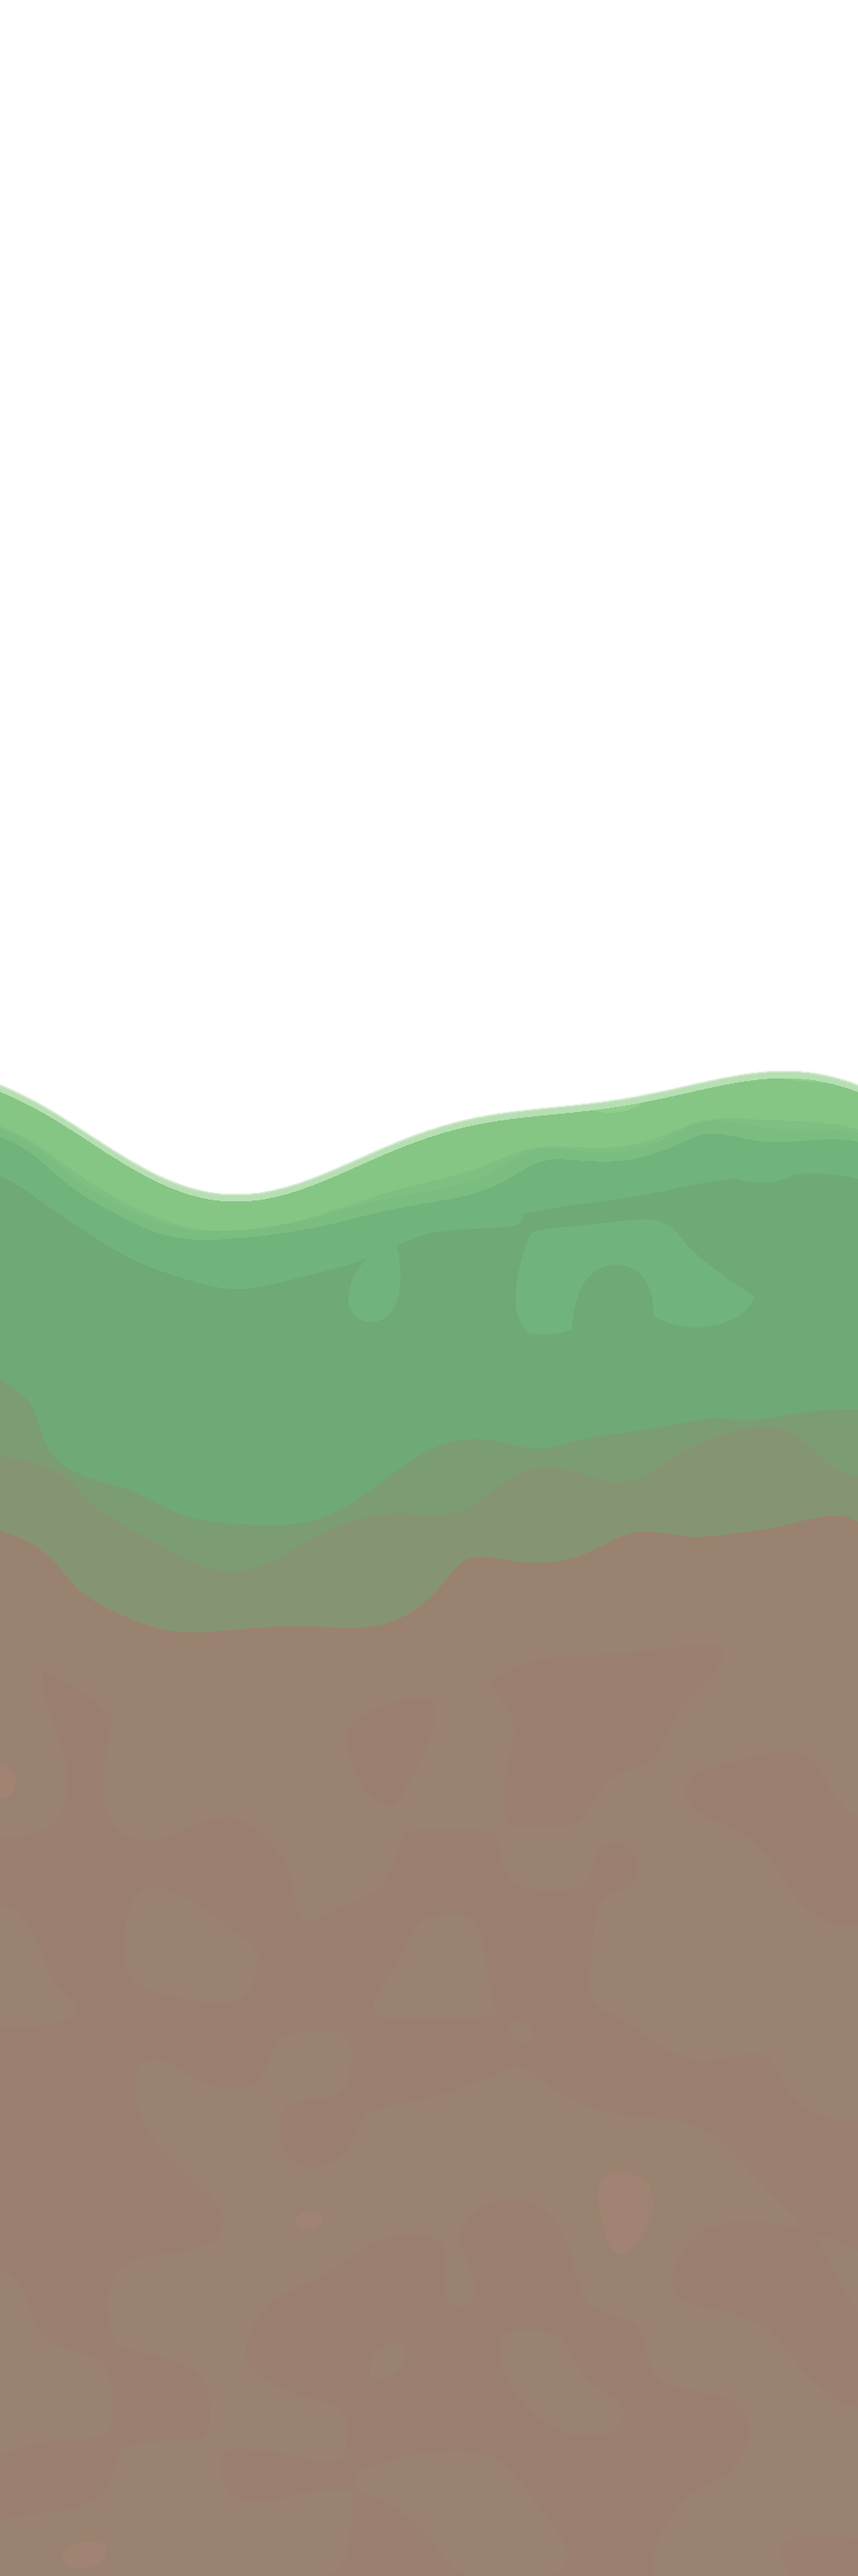
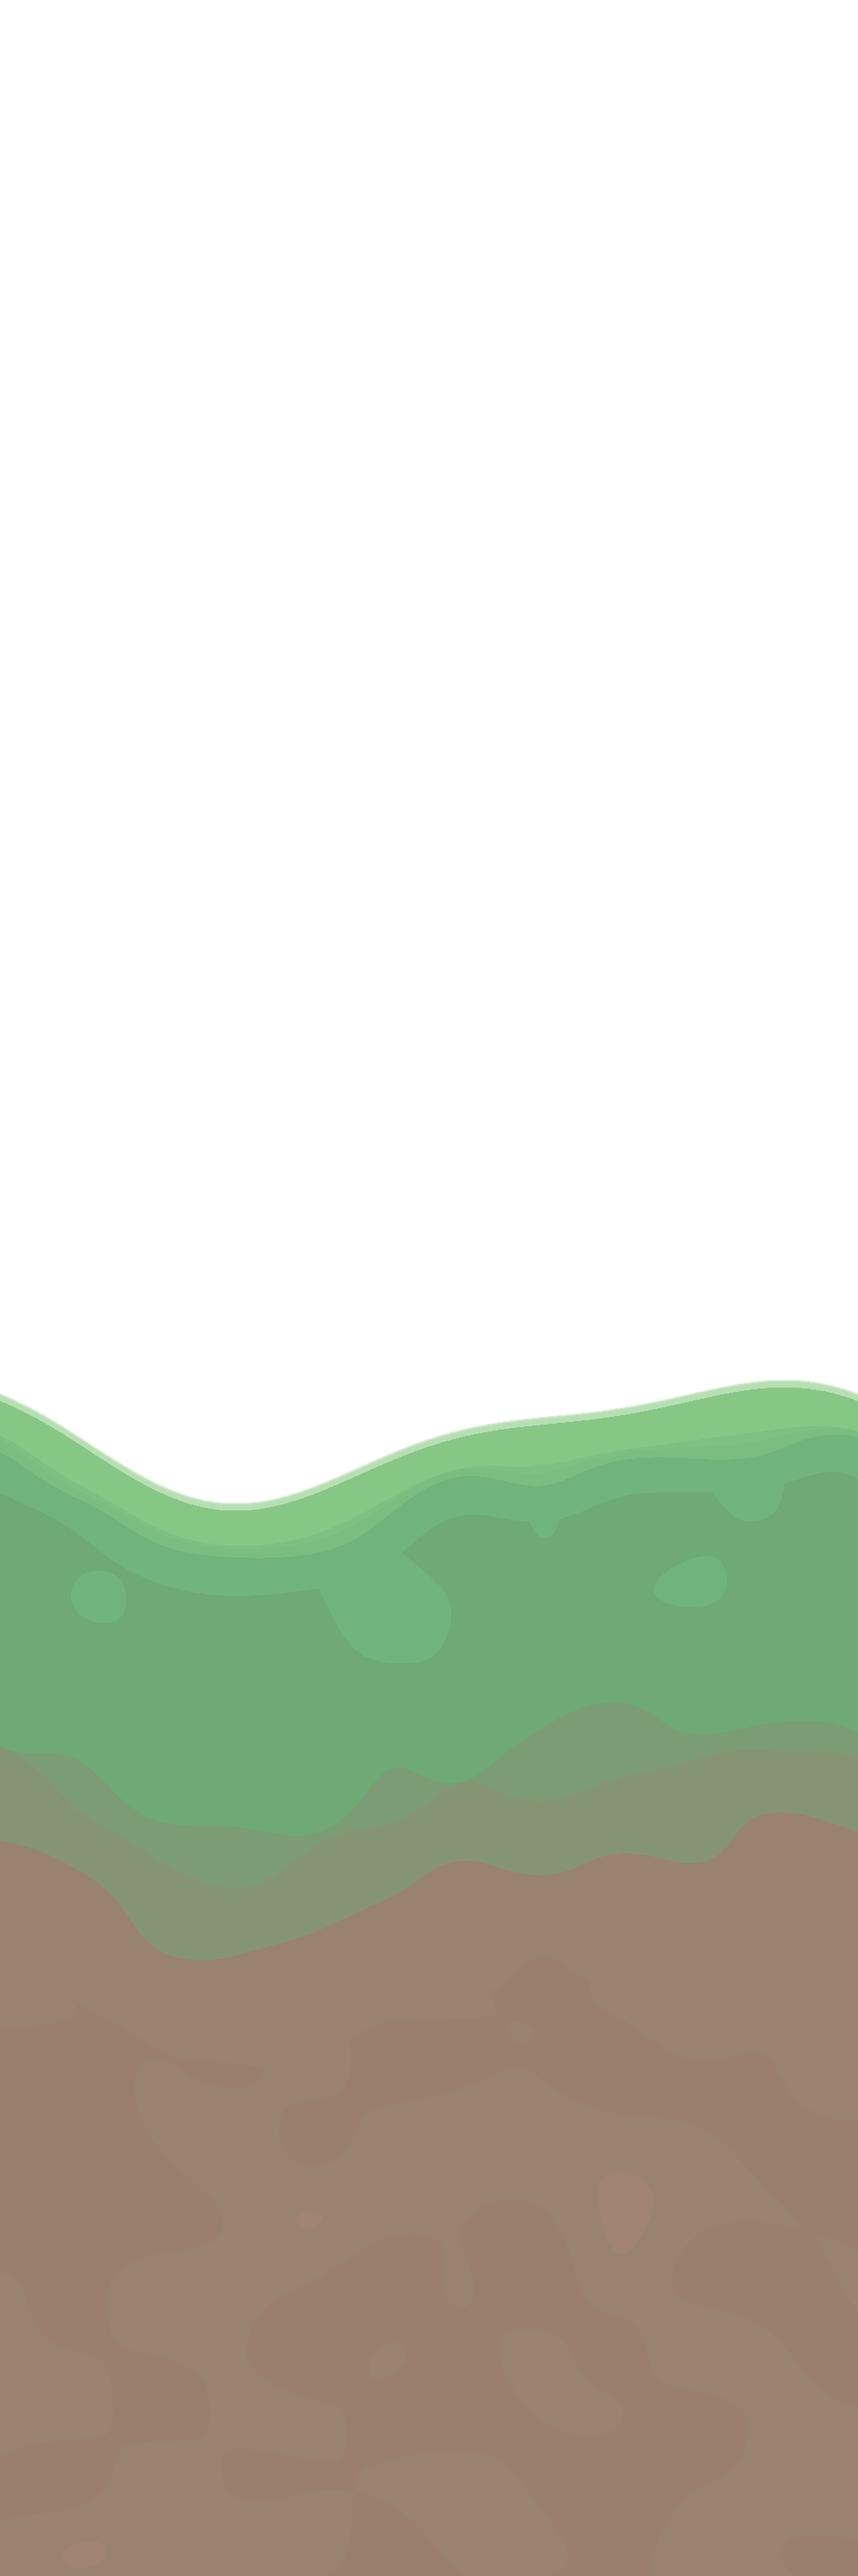
Butikk-oppsett, større dråper, lavere åser på enga; TESTSTART bane 5 (midlertidig)
Claude-Session: https://claude.ai/code/session_01Fvyg5es7gUXvAHJVM5Veto

Changed region(s): [[0.0, 0.403, 1.0, 0.744]]

diff --git a/Util/grafikk/lag_bakgrunn.py b/Util/grafikk/lag_bakgrunn.py
@@ -140,7 +140,7 @@ def eng_stripe(n, lag, rng):
     """Åser nederst, himmel (gjennomsiktig) over. Sky på det fjerneste laget."""
     b0, b1 = BAND[lag]
     # åstoppen ligger litt inn i båndet, så åsene ses bak banen
-    hoyde = [0.10, 0.17, 0.25][lag - 1]
+    hoyde = [0.0, 0.05, 0.10][lag - 1]
     topp = (b1 - hoyde) * H + periodisk(rng, 2, [60, 80, 100][lag - 1])
     yy = np.arange(H)[:, None]
     fast = yy > topp[None, :]
